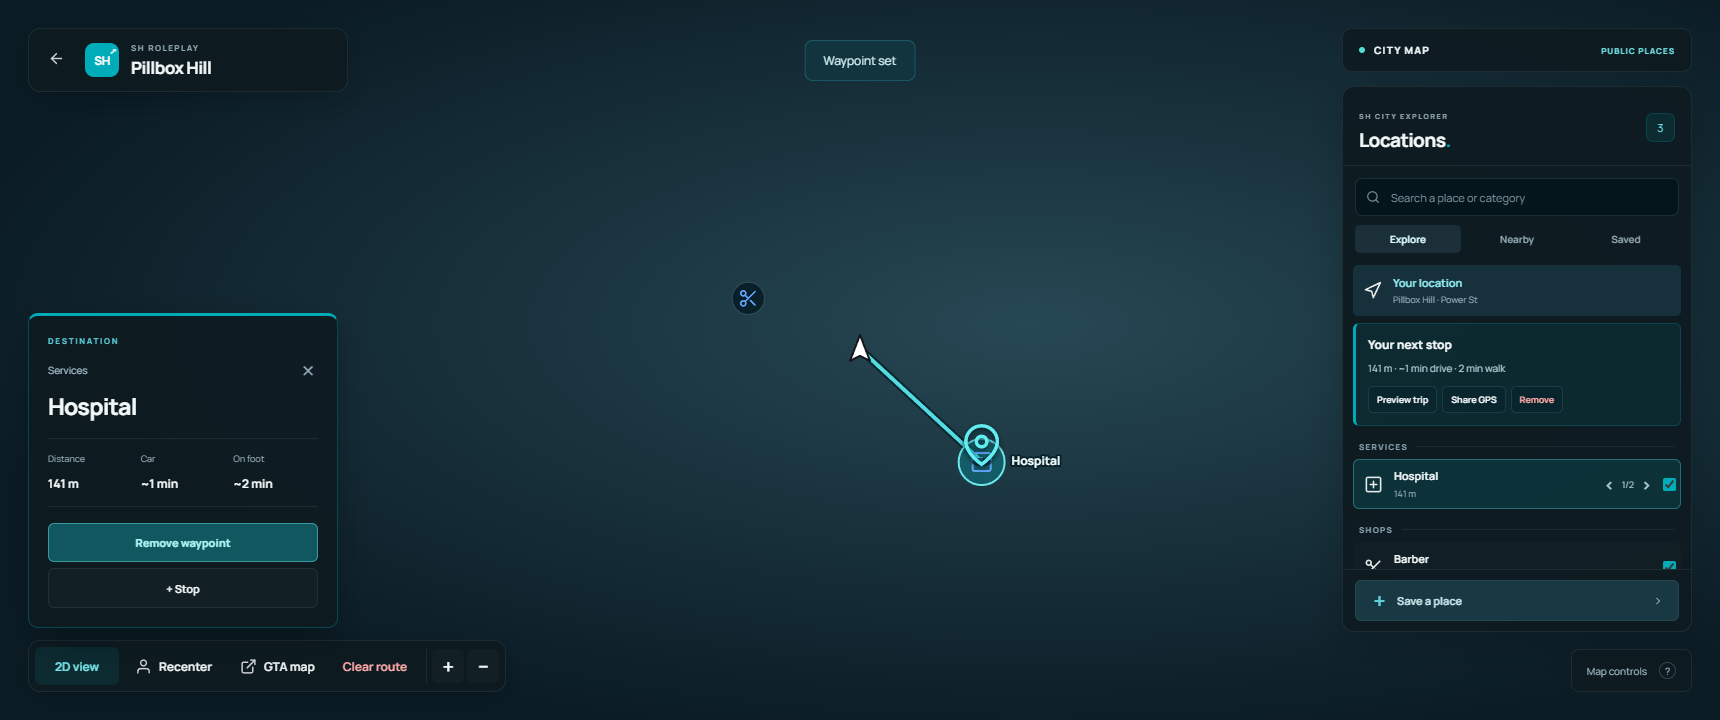
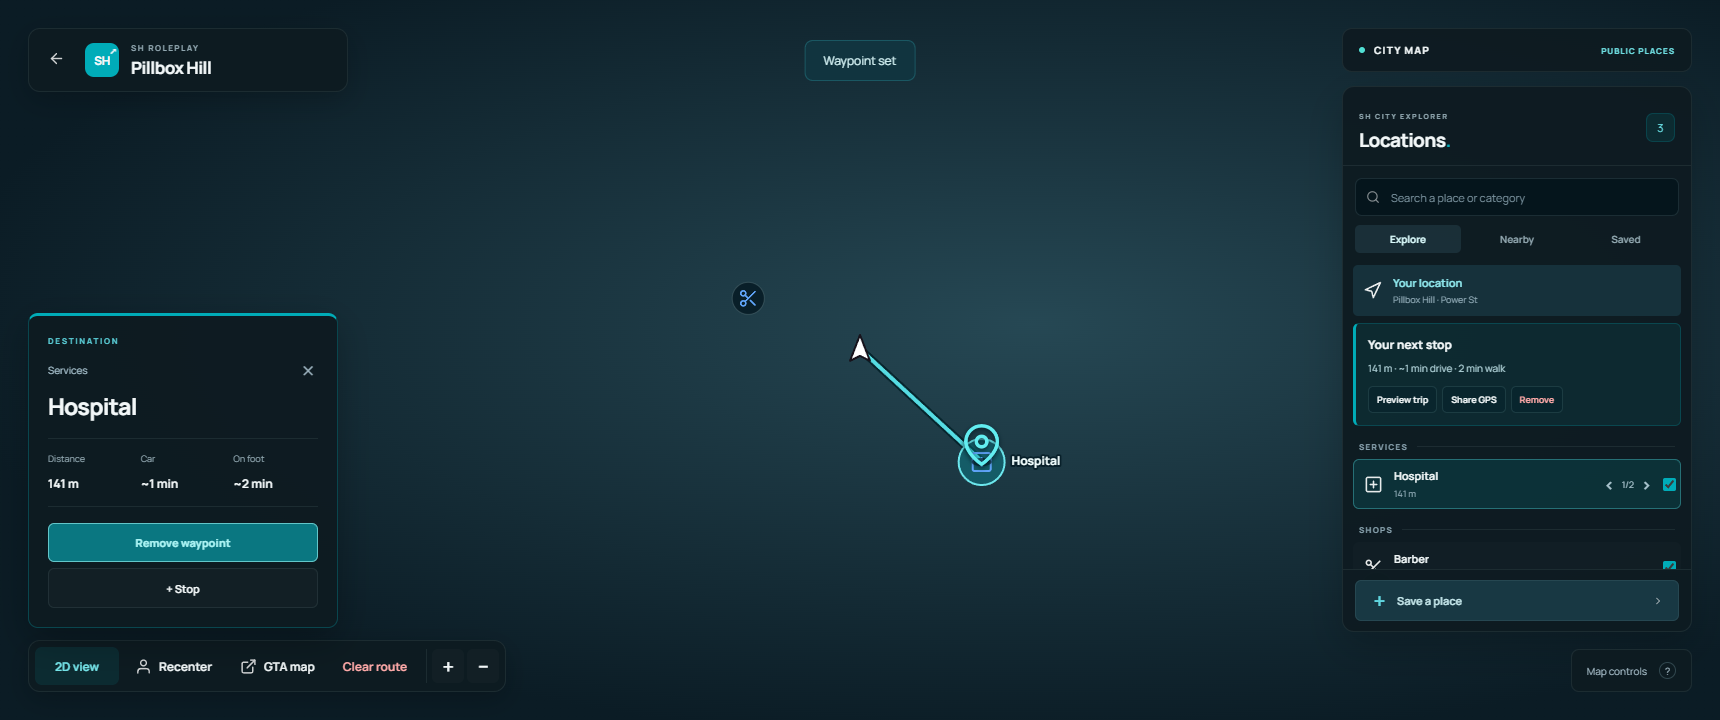
Release sh_pauseMenu 1.0.0 by Shadmehr Valipour

Changed region(s): [[0.0308, 0.7028, 0.1849, 0.7944]]

diff --git a/html/map/map.js b/html/map/map.js
@@ -1,4 +1,4 @@
-// Independent sh_pauseMenu map UI. No code or assets from the reference resource.
+// sh_pauseMenu map interface. Created and developed by Shadmehr Valipour.
 (() => {
   'use strict';
   const el=id=>document.getElementById(id), canvas=el('world'), context=canvas.getContext('2d');
@@ -213,13 +213,13 @@
     }
     if(frame.markers||frame.places||frame.shared||frame.route||waypointChanged||performance.now()-lastSidebar>1000){lastSidebar=performance.now();sidebar();syncGpsButton();}draw();
   }
-  async function mapClick(x,y,street=false){
-    const hit=hitPoints.find(h=>Math.hypot(h.x-x,h.y-y)<20);if(hit&&!street){select(hit.p);return;}
+  async function mapClick(x,y){
+    const hit=hitPoints.find(h=>Math.hypot(h.x-x,h.y-y)<20);if(hit){select(hit.p);return;}
     let point;
     if(state.mode==='3d')point=await request('pick',{u:x/innerWidth,v:y/innerHeight});
     else{const scale=state.flat.span/innerWidth;point={x:state.flat.x+(x-innerWidth/2)*scale,y:state.flat.y-(y-innerHeight/2)*scale};}
     if(!point||!finite(point.x)||!finite(point.y))return;
-    if(!street)setWaypoint(point);
+    setWaypoint(point);
   }
   function flushMove(){
     inputFrame=0;const move=inputMove;inputMove=null;if(move&&state.open)request(move.rotate?'rotate':'pan',{dx:move.dx,dy:move.dy,height:innerHeight});
@@ -235,7 +235,7 @@
     else{if(!inputMove)inputMove={dx:0,dy:0,rotate:drag.rotate};inputMove.dx+=e.clientX-drag.lastX;inputMove.dy+=e.clientY-drag.lastY;if(!inputFrame)inputFrame=requestAnimationFrame(flushMove);}
     drag.lastX=e.clientX;drag.lastY=e.clientY;
   });
-  canvas.addEventListener('pointerup',e=>{if(drag&&!drag.moved)mapClick(e.clientX,e.clientY,drag.rotate&&state.mode==='3d');drag=null;canvas.classList.remove('dragging');});
+  canvas.addEventListener('pointerup',e=>{if(drag&&!drag.moved&&!drag.rotate)mapClick(e.clientX,e.clientY);drag=null;canvas.classList.remove('dragging');});
   canvas.addEventListener('pointercancel',()=>{drag=null;canvas.classList.remove('dragging');});canvas.addEventListener('contextmenu',e=>e.preventDefault());
   canvas.addEventListener('wheel',e=>{e.preventDefault();zoom(e.deltaY<0?1.2:1/1.2);},{passive:false});
   el('mode').onclick=setMode;el('recenter').onclick=recenter;el('clear').onclick=clear;el('zin').onclick=()=>zoom(1.4);el('zout').onclick=()=>zoom(1/1.4);

diff --git a/tools/package.py b/tools/package.py
@@ -1,0 +1,55 @@
+"""Build the sh_pauseMenu installation package. Uses Python's standard library."""
+
+import argparse
+import hashlib
+import json
+from pathlib import Path
+import re
+import zipfile
+
+
+ROOT = Path(__file__).resolve().parents[1]
+RESOURCE = "sh_pauseMenu"
+DOCUMENTS = ("LICENSE", "README.md", "CHANGELOG.md", "TESTING.md", "THIRD_PARTY.md")
+
+
+def package(output):
+    manifest = (ROOT / "fxmanifest.lua").read_text(encoding="utf-8")
+    version = re.search(r"^version\s+'([^']+)'", manifest, re.MULTILINE).group(1)
+    files = [ROOT / name for name in ("fxmanifest.lua", "config.lua", *DOCUMENTS)]
+    for directory in ("client", "server", "html"):
+        files.extend(path for path in (ROOT / directory).rglob("*") if path.is_file())
+    files.sort(key=lambda path: path.relative_to(ROOT).as_posix())
+    checksums = "".join(
+        f"{hashlib.sha256(path.read_bytes()).hexdigest()}  {path.relative_to(ROOT).as_posix()}\n"
+        for path in files
+    )
+    output.mkdir(parents=True, exist_ok=True)
+    archive = output / f"{RESOURCE}-{version}.zip"
+    with zipfile.ZipFile(archive, "w", zipfile.ZIP_DEFLATED, compresslevel=9) as bundle:
+        for path in files:
+            bundle.write(path, f"{RESOURCE}/{path.relative_to(ROOT).as_posix()}")
+        bundle.writestr(f"{RESOURCE}/SHA256SUMS.txt", checksums)
+    with zipfile.ZipFile(archive) as bundle:
+        assert bundle.testzip() is None, "Package integrity check failed"
+        for line in checksums.splitlines():
+            expected, relative = line.split("  ", 1)
+            assert hashlib.sha256(bundle.read(f"{RESOURCE}/{relative}")).hexdigest() == expected
+        assert all(
+            name.startswith(f"{RESOURCE}/")
+            and not any(part in {".git", "node_modules", "__pycache__", "tests", "tools"}
+                        for part in Path(name).parts)
+            for name in bundle.namelist()
+        ), "Unexpected development files in installation package"
+    digest = hashlib.sha256(archive.read_bytes()).hexdigest()
+    archive.with_suffix(".zip.sha256").write_text(
+        f"{digest}  {archive.name}\n", encoding="utf-8", newline="\n"
+    )
+    print(json.dumps({"version": version, "archive": str(archive), "files": len(files) + 1,
+                      "sha256": digest}))
+
+
+if __name__ == "__main__":
+    parser = argparse.ArgumentParser(description=__doc__)
+    parser.add_argument("--output", type=Path, default=ROOT / "dist")
+    package(parser.parse_args().output.resolve())

diff --git a/TESTING.md b/TESTING.md
@@ -1,32 +1,30 @@
 # Verification
 
-Automated verification updated on 2026-11-05:
+Updated: 2026-11-05. Release: 1.0.0.
 
-- All Lua scripts parse under Lua 5.4.
-- Framework adapters, unavailable character data, numeric validation and identifier privacy.
-- NUI startup handshake, focus lifecycle, native settings/map handoff and closing cleanup.
-- Local cloned-ped headshots, cancellation and texture cleanup.
-- Character-owned saved-place persistence and input validation; GPS sharing distance, routing buckets and rate limits.
-- Independent map camera state, native GPS sample handling, invalid controls, switching 2D/3D and camera cleanup using native mocks.
-- Headless Chromium integration: waypoint, route preview, saved places, safe text rendering, 2D/3D UI, zoom, pan, rotation and returning to the menu.
-- RC.3 map redesign: branch cycling, independent place-type visibility, active waypoint controls, Explore/Nearby/Saved filtering and panel bounds at 1720×720, 900×650 and 650×600.
-- Mocked native checks reject entity-attached/unknown/private blips, conceal all entity pools before camera activation and every frame, block street view and enforce camera bounds after repeated zoom/rotate inputs.
+## Automated checks
 
-Live FiveM checks on this server confirmed the RC.3 aerial camera, public location list, selected-place card, waypoint pin and 2D texture loading. The route was unavailable in that session; the subsequent GPS/radar-calculation fix passes native-mock tests but has not yet been rechecked in game. Two-player concealment, custom overlays and full GPS route sampling still need the smoke test below. This is a release candidate, not a fully production-validated release.
+- Lua 5.4 parsing for all resource scripts.
+- Framework selection and profile handling for ESX, QBCore, Qbox, standalone and custom adapters.
+- Numeric validation, identifier privacy, request limits and server-origin event guards.
+- NUI startup, focus lifecycle, native menu handoff, settings and resource-stop cleanup.
+- Local character headshots, cancellation, fallback and texture cleanup.
+- Character-owned saved places, persistence, GPS sharing distance, routing buckets and rate limits.
+- Map camera bounds, entity concealment and exclusion of private/entity-attached blips using native mocks.
+- GPS fallback when normal waypoint points are absent, curved path sampling, preview cleanup and shared-channel opt-out.
+- Browser integration for location filtering, branch cycling, per-type visibility, waypoints, saved places, route preview, zoom, pan, rotation and map/menu closing.
+- Responsive panel bounds at 1720×720, 900×650 and 650×600.
 
-- RC.5 native-mock regression: ordinary waypoint samples unavailable while on foot, deferred preview sampling, curved road samples, destination removal and close cleanup, normal-route preference and shared-channel opt-out.
+## In-game acceptance
 
-RC.5 adds an on-foot native route fallback. The latest user screenshot still showed missing ordinary route samples before this fix. The new fallback has not yet been confirmed in a live FiveM session.
+The server owner confirmed the current version on 2026-11-05. Earlier live checks also covered aerial rendering, public location selection, destination cards, waypoint pins and 2D texture loading. Automated native mocks complement these checks; they do not simulate every FiveM build or third-party resource.
 
-Live smoke test:
+## Checks for your server
 
-1. Start only `sh_pauseMenu` after the framework; run `refresh` when the manifest changes.
-2. Verify NUI callbacks with the requested mixed-case folder name on your server/client build.
-3. Open and close the menu repeatedly; confirm face, balances and HUD restoration.
-4. Open the aerial map; pan, rotate, zoom and recenter. Verify street view is unavailable and repeated zoom cannot reach ground level.
-5. Switch to 2D and verify game tiles line up with the player and waypoint.
-6. Set GPS nearby and far away; check native route points and route preview when available.
-7. Save/delete places, reconnect and confirm character separation.
-8. Check sharing with two players, then restart the resource while a map camera is active.
-
-9. With a second player and vehicle in view, open the map and pan across them. Confirm entities and entity trackers are hidden, including while the camera moves; close/restart and confirm normal world visibility for both players. Check custom name tags, radar replacements and other resource overlays separately.
+1. Start only one pause-menu resource and start your framework first.
+2. Open/close the menu and verify character data, headshots, controls, HUD and camera restoration.
+3. Check 2D/3D map alignment and GPS for nearby and distant destinations, on foot and in a vehicle.
+4. Test saved-place ownership across characters and sharing between two players in the intended routing bucket.
+5. Verify other players, vehicles and tracking blips are concealed in the aerial view, including during camera movement. Check custom name tags and overlays separately.
+6. Restart the resource while the map is open and verify camera, weather, focus and HUD recovery.
+7. If a mission/racing resource reserves the shared native multi-route channel during map use, disable `Config.Map.nativeRouteFallback`.

diff --git a/README.md b/README.md
@@ -2,9 +2,11 @@
 
 A configurable FiveM pause menu with character information, an interactive city map, saved places and quick access to GTA settings.
 
-**Release candidate:** `v1.0.0-rc.5`. See [verification status](TESTING.md) before deploying to a production server.
+**Created and developed by [Shadmehr Valipour](https://github.com/shadmehrvp).**
 
-![SH city explorer interface](docs/map-ui.png)
+**Version:** `1.0.0` · [Download](https://github.com/shadmehrvp/sh_pauseMenu/releases/latest) · [Verification](TESTING.md)
+
+![SH city explorer interface](https://raw.githubusercontent.com/shadmehrvp/sh_pauseMenu/main/docs/map-ui.png)
 
 *UI preview with a neutral test background. FiveM renders the live city scene behind the interface in game.*
 
@@ -14,7 +16,7 @@ A configurable FiveM pause menu with character information, an interactive city 
 - Character name, session/citizen ID, job, cash and bank balance.
 - Native character headshot using a local duplicate; the player's real mask and clothing remain untouched.
 - Aerial game camera with pan, rotation, bounded zoom and recenter controls.
-- 2D map using game textures at runtime; no bundled map engine, road database or sprites from the reference resource.
+- 2D map using textures from the player’s game installation.
 - Public fixed-location server blips, searchable places, waypoint selection, up to five sequential stops and a GPS route preview.
 - Compact SH city explorer: right-side location list, per-type visibility, branch cycling, destination card and teal waypoint pins.
 - Up to 30 saved places per character, stored in server resource KVPs.
@@ -36,8 +38,6 @@ ensure sh_pauseMenu
 For an existing running server, run these in the **server console**:
 
 ```text
-stop teal_pause
-stop zx_pause
 refresh
 ensure sh_pauseMenu
 ```
@@ -102,9 +102,9 @@ The aerial view suppresses all streamed peds, vehicles and objects locally on ev
 
 These are safeguards for this map UI, not a server anti-cheat. Other resources can still draw their own overlays or publish coordinate trackers. Test with a second player and your server's actual HUD/blip resources before production deployment.
 
-The route comes from GTA's GPS natives. When ordinary waypoint samples are missing, `Config.Map.nativeRouteFallback` enables an on-foot native road preview while the map is open. It uses the game's shared multi-route channel and clears its preview when the destination changes, is removed, or the map closes. Set this option to `false` if a mission/racing resource must keep that channel during map use. Availability and completeness depend on the game having calculated and streamed the route. The UI does not invent a street route when native points are unavailable; the waypoint remains usable and the native GTA map is always accessible. Travel times are estimates. Alternative road-routing modes from the visual reference are not included.
+The route comes from GTA's GPS natives. When ordinary waypoint samples are missing, `Config.Map.nativeRouteFallback` enables an on-foot native road preview while the map is open. It uses the game's shared multi-route channel and clears its preview when the destination changes, is removed, or the map closes. Set this option to `false` if a mission/racing resource must keep that channel during map use. Availability and completeness depend on the game having calculated and streamed the route. If game route points are unavailable, the waypoint and native GTA map remain accessible. Travel times are estimates.
 
-2D textures are read from the player's game installation. Custom radar replacements may need different texture names or grid coordinates. The built-in GTA map remains available if a game build cannot supply these textures. Controller-specific navigation is not included in this independent implementation.
+2D textures are read from the player's game installation. Custom radar replacements may need different texture names or grid coordinates. The built-in GTA map remains available if a game build cannot supply these textures. Controller-specific navigation is not included.
 
 ## Development and verification
 
@@ -117,4 +117,6 @@ python tests/run.py
 
 Browser checks require Playwright installed **outside the resource**. Set `NODE_PATH` to that installation's `node_modules`, then run `node tests/browser.cjs`. `BROWSER_PATH` can point to an installed Chromium/Edge executable.
 
-See [TESTING.md](TESTING.md) for what was and was not verified. See [THIRD_PARTY.md](THIRD_PARTY.md) for asset attribution. The independent application code is MIT licensed; third-party assets retain their own terms.
+Run `python tools/package.py` to generate a clean installation ZIP and checksum in `dist/`. Development tests, workflow files and preview images stay in the source repository.
+
+See [TESTING.md](TESTING.md) for verification details. See [THIRD_PARTY.md](THIRD_PARTY.md) for asset attribution. The application code is MIT licensed; third-party assets retain their own terms.

diff --git a/CHANGELOG.md b/CHANGELOG.md
@@ -1,36 +1,14 @@
 # Changelog
 
-## 1.0.0-rc.5 — 2026-11-05
+## 1.0.0 — 2026-11-05
 
-- Request a native road preview with on-foot support when the ordinary waypoint path is unavailable.
-- Sample only the normal waypoint and the map-owned preview; leave mission/blip GPS samples out.
-- Release preview state on destination change, clear, map close and resource stop.
-- Add fallback opt-out for servers reserving the shared multi-route channel and regression checks.
-
-## 1.0.0-rc.4 — 2026-11-04
-
-- Wait for asynchronous map mode transitions in browser checks, including faster Linux CI environments.
-- Retains the RC.3 live map, location controls, waypoint styling and privacy safeguards.
-
-## 1.0.0-rc.3 — 2026-11-04
-
-- Compact right-side locations with per-type visibility, branch cycling and a separate destination card.
-- Consistent Feather location icons, teal destination pins and outlined route rendering.
-- Hide streamed entities locally, filter entity-attached trackers and constrain the aerial camera.
-- Retry waypoint GPS from the next road node and keep radar calculation active behind the hidden HUD.
-- Expanded native-mock and browser checks; document remaining live GPS and two-player verification.
-
-## 1.0.0-rc.2 — 2026-11-04
-
-- Original SH map interface with a floating left discovery panel, teal accents and a bottom control dock.
-- Explore, Nearby and Saved filters, place count and a persistent save action.
-- Separate destination card, compact location identity and expandable control hints.
-- Responsive layout and updated map route/waypoint colors.
-
-## 1.0.0-rc.1 — 2026-11-04
-
-- Public resource name and events: `sh_pauseMenu`.
-- Independent map engine and interface; transferred reference-resource files removed from the distribution.
-- Server-configurable branding, map locations, sprite labels, colors and optional integrations.
-- Native GPS sampling, character-owned saved places, waypoint sharing and camera cleanup.
-- English installation guides, MIT code license, third-party notices and automated checks.
+- Initial stable release by Shadmehr Valipour.
+- English pause menu with configurable branding, settings and character information.
+- ESX Legacy, QBCore, Qbox, standalone and custom framework adapters.
+- Local character headshots with cleanup and fallback handling.
+- Live aerial and 2D maps with a compact SH location interface.
+- Searchable public places, branch cycling, visibility controls and destination cards.
+- Teal waypoint pins, GPS routes, on-foot route fallback and trip preview.
+- Character-owned saved places, sequential stops and GPS sharing.
+- Aerial entity concealment, camera limits and public-location filtering.
+- Clean installation package, source checks, MIT license and asset notices.

diff --git a/THIRD_PARTY.md b/THIRD_PARTY.md
@@ -2,12 +2,12 @@
 
 - **Feather SVG icons:** MIT, https://github.com/feathericons/feather. Notice: `html/assets/FEATHER-LICENSE.txt`.
 - **Manrope font:** SIL Open Font License 1.1, https://github.com/google/fonts/tree/main/ofl/manrope. Notice: `html/assets/OFL-Manrope.txt`.
-- **Overview map thumbnail:** GTA V atlas artwork originally sourced through https://github.com/VIRUXE/gtav-map-tiles and processed for the overview card. GTA artwork belongs to Rockstar Games and is not covered by this project's MIT code license. No ownership of the artwork is claimed.
+- **Overview map thumbnail:** GTA V atlas artwork sourced from https://github.com/VIRUXE/gtav-map-tiles and processed for the overview card. GTA artwork belongs to Rockstar Games and is not covered by this project's MIT code license. No ownership of the artwork is claimed.
 - **Runtime game textures, headshots and native map:** read from the player's existing GTA V/FiveM installation; they are not distributed as extracted files in this resource.
 
-The map UI and camera engine are original implementations using public native APIs. No third-party pause-menu source code or road-network binary is included.
+The map UI and camera engine use GTA/FiveM native APIs.
 
-API documentation used:
+API documentation:
 
 - https://docs.fivem.net/docs/scripting-manual/nui-development/nui-callbacks/
 - https://github.com/citizenfx/natives/blob/master/PATHFIND/GetPosAlongGpsTypeRoute.md
@@ -17,7 +17,7 @@ API documentation used:
 
 This is an unofficial resource, unaffiliated with Rockstar Games, Cfx.re or framework authors.
 
-Map visibility and blip native references:
+Map visibility and GPS APIs:
 
 - https://github.com/citizenfx/natives/blob/master/NETWORK/SetEntityLocallyInvisible.md
 - https://github.com/citizenfx/natives/blob/master/HUD/GetBlipInfoIdType.md
